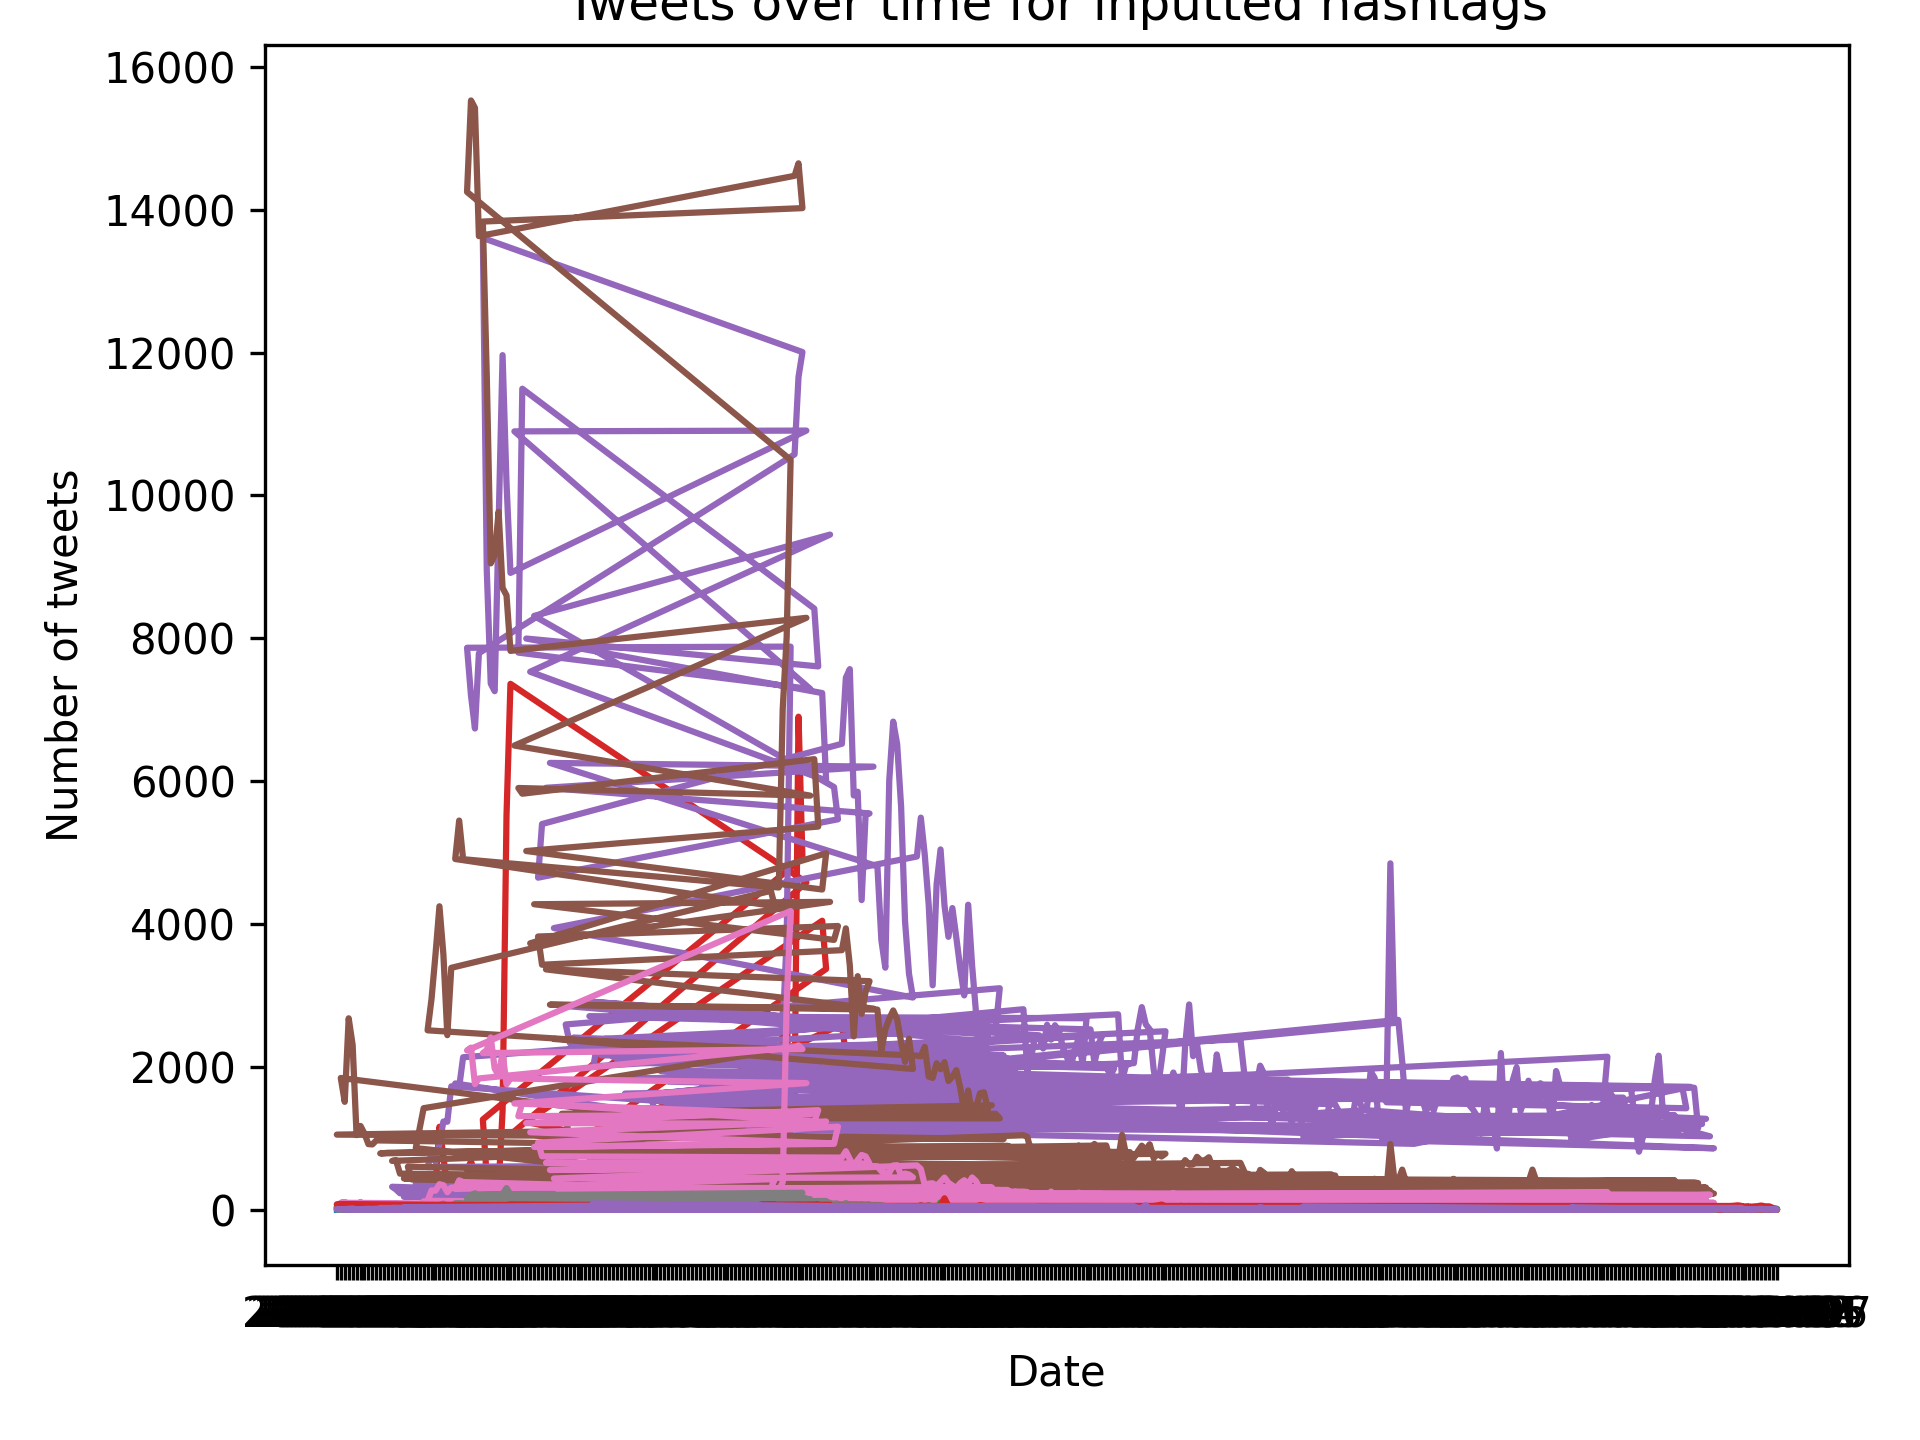
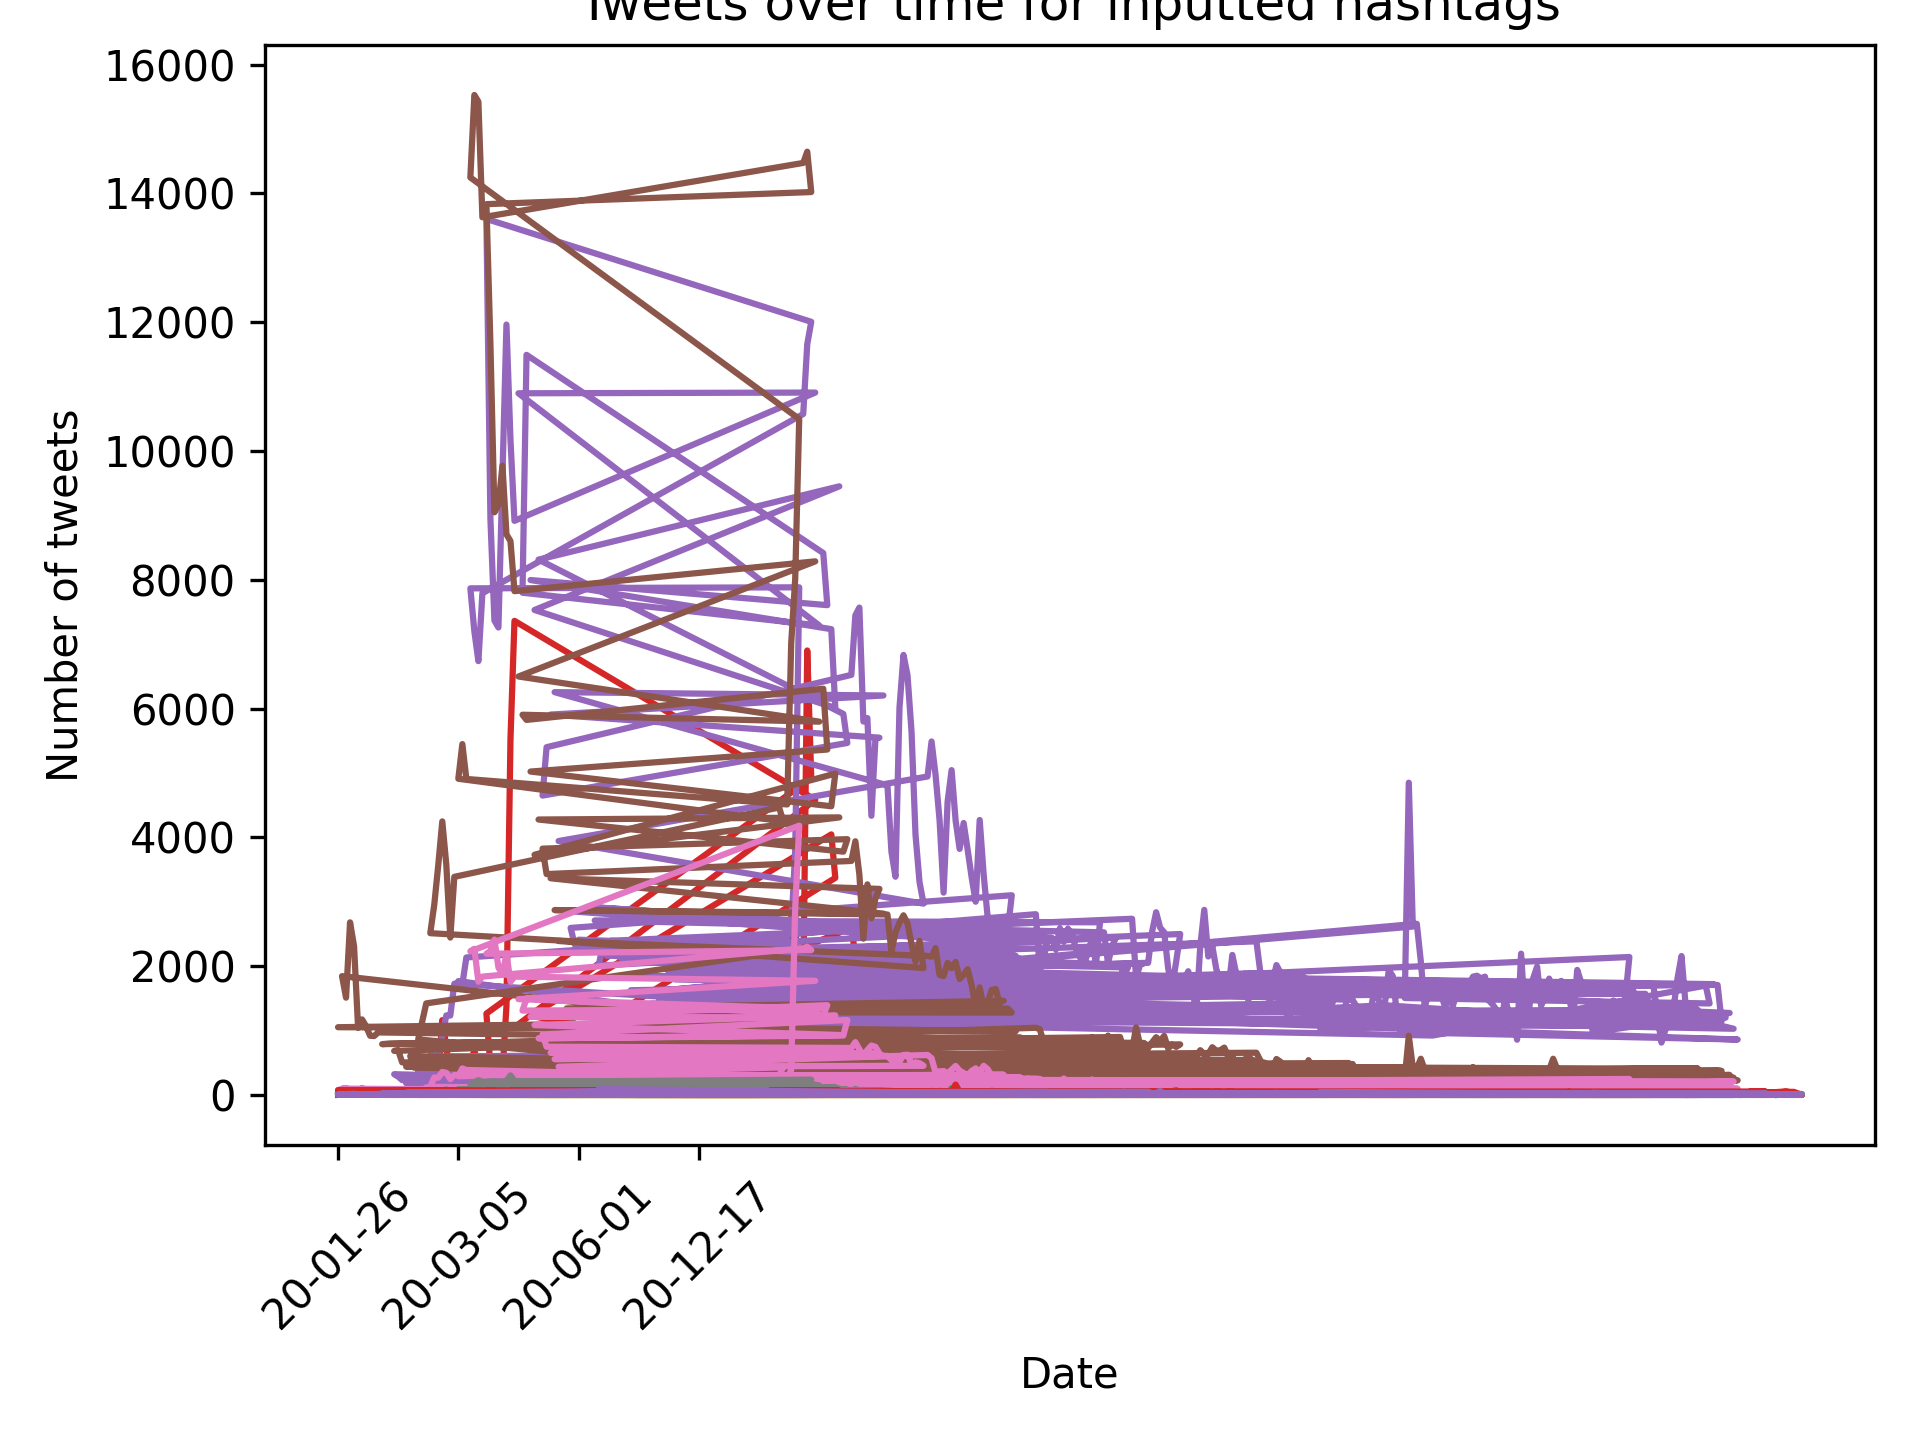
updates

diff --git a/src/newmap/alternative_reduce.py b/src/newmap/alternative_reduce.py
@@ -95,11 +95,16 @@ for ht in lHashtags:
 
 #categories, values = zip(*items)
 
+first_iter_keys = True
+
 for key, val in filtereddict.items():
     dates = dict(sorted(val.items(), key=lambda item: item[0]))
     plt.plot(dates.keys(), dates.values(), label=key)
 
-#plt.xticks(categories[::30], rotation=45)
+    if first_iter_keys:
+        key_labels = list(dates.keys())
+        plt.xticks(key_labels[::30], rotation=45)
+        first_iter_keys = False
 
 plt.xlabel("Date")
 plt.ylabel("Number of tweets")
